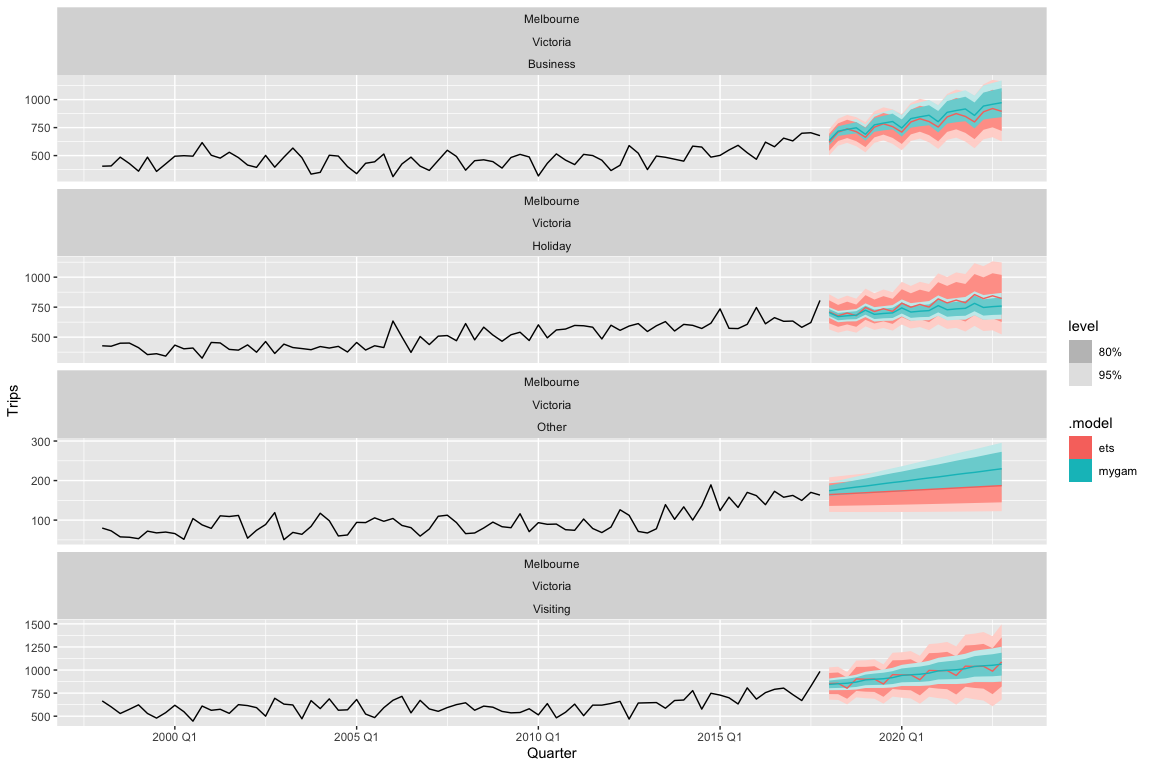
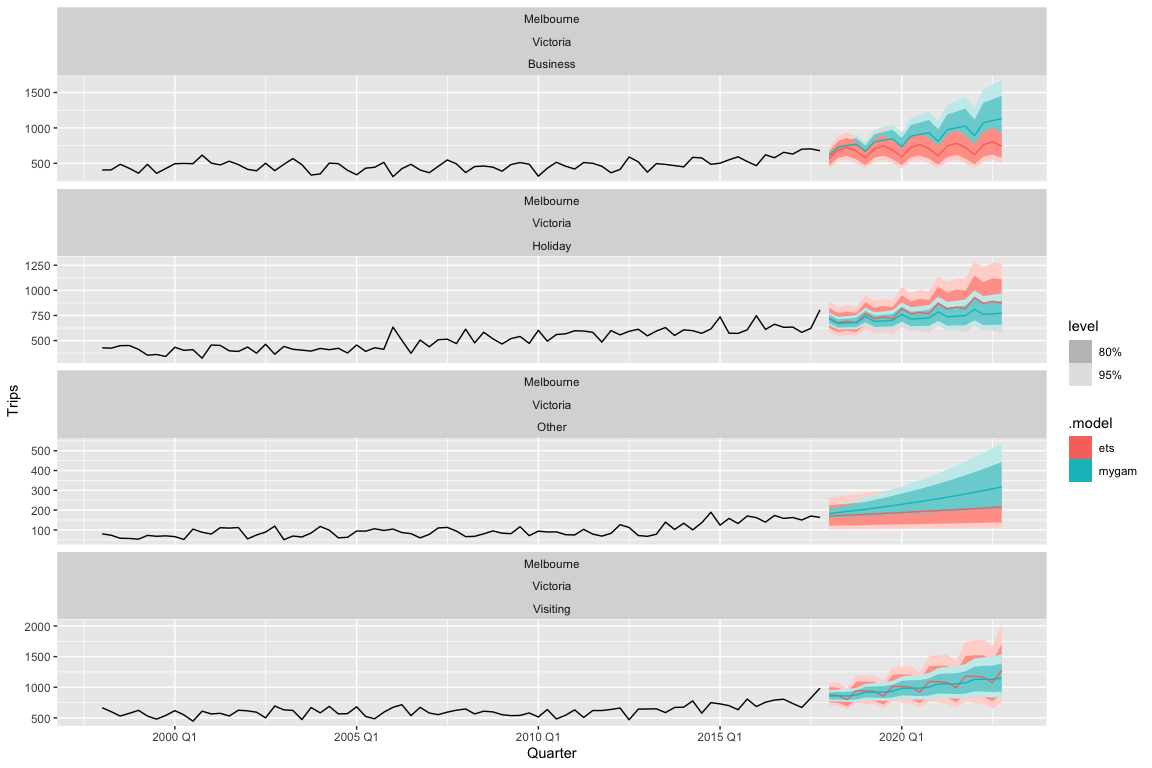
transformations now work

diff --git a/README.md b/README.md
@@ -12,7 +12,9 @@ data](https://www.frontiersin.org/journals/ecology-and-evolution/articles/10.338
 This package aims to incorporate the broad conceptual approach of using
 [structural time-series
 models](https://blog.tensorflow.org/2019/03/structural-time-series-modeling-in.html)
-within a GAM setup into the incredible `fable` forecasting framework.
+(i.e., decomposing a time series into its trend, seasonality, error, and
+other components and modelling them additively) within a GAM setup into
+the incredible `fable` forecasting framework.
 
 ## Installation
 
@@ -148,13 +150,15 @@ We can perform a quick sense-check of the approach against more
 commonly-used forecasting methods such as [exponential
 smoothing](https://otexts.com/fpp3/expsmooth.html). Here we will just
 specify an additive trend for the ETS model and let the other components
-be determined automatically:
+be determined automatically. We will also log-transform the response
+variable to show that `fable.gam` handles these transformations
+automatically as well, just like all models in `fable`.
 
 ``` r
 tourism_melb %>%
   model(
-    mygam = GAM(Trips ~ trend() + season(4)),
-    ets = ETS(Trips ~ trend("A"))
+    mygam = GAM(log(Trips) ~ trend() + season(4)),
+    ets = ETS(log(Trips) ~ trend("A"))
   ) %>%
   forecast(h = "5 years") %>%
   autoplot(tourism_melb)